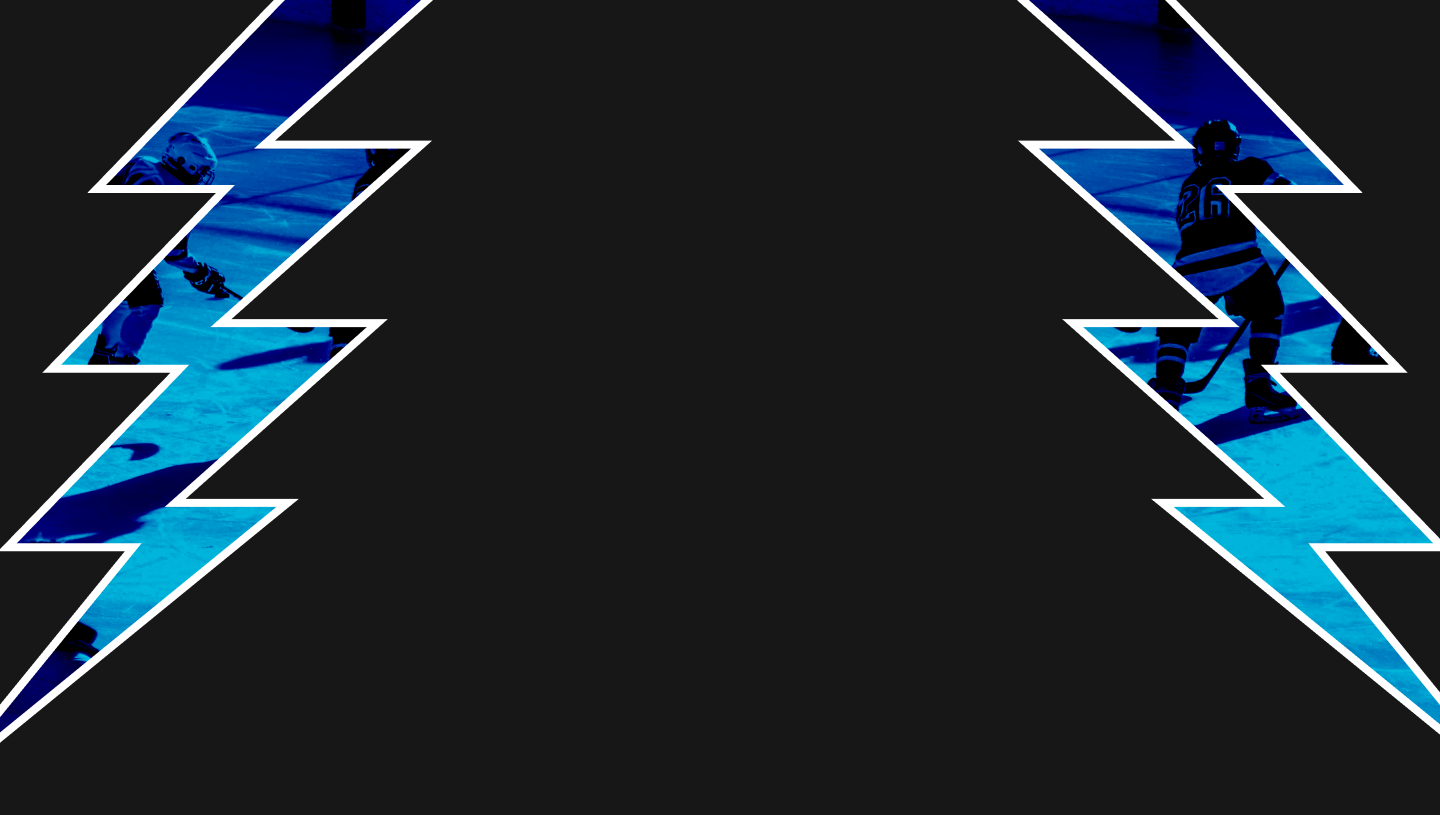
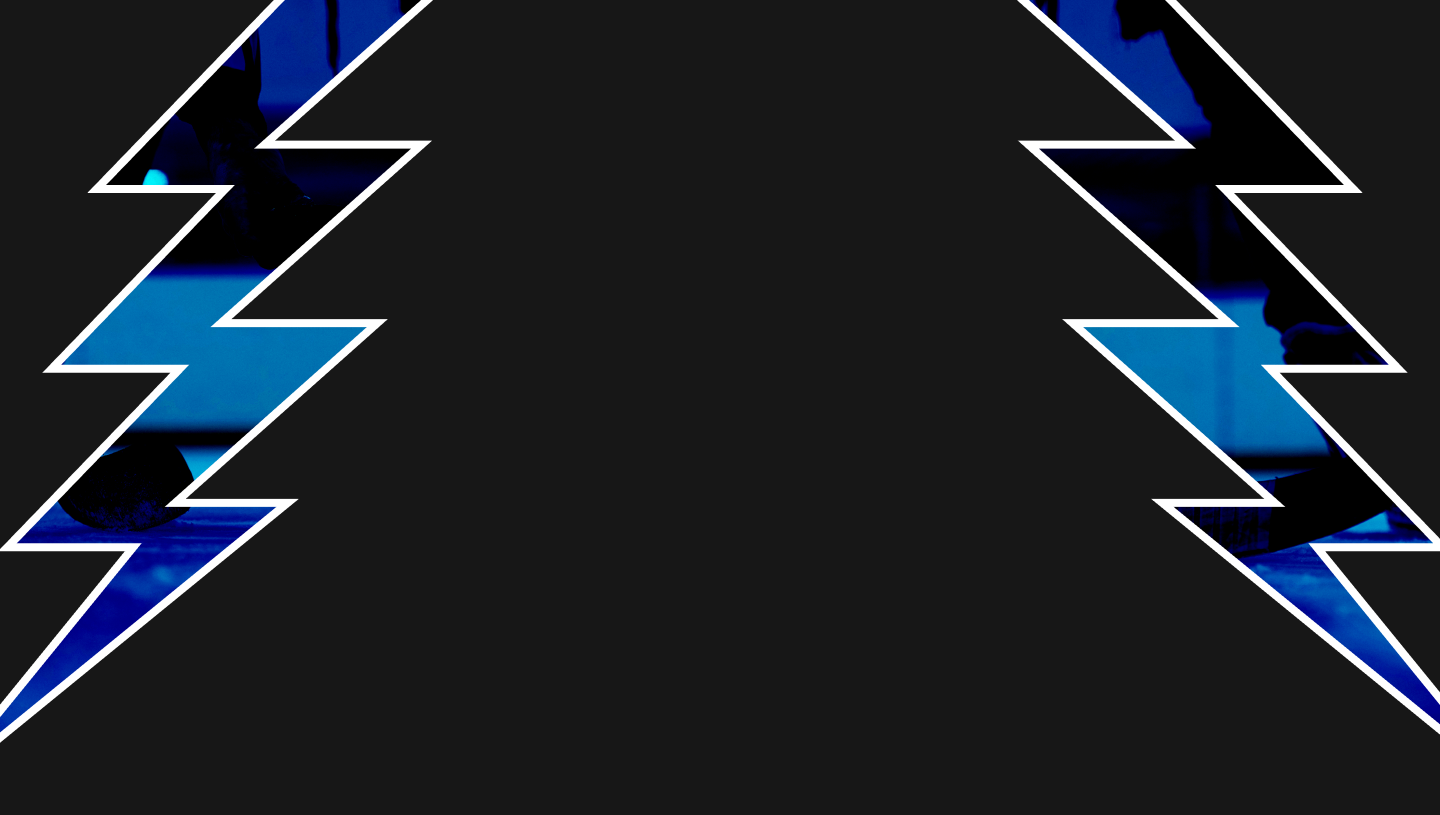
20: Switch out background image to not have kids skating and replace with generic hockey images

Changed region(s): [[0.0, 0.0, 0.3125, 0.8896], [0.7188, 0.0, 1.0, 0.8896]]

diff --git a/src/app/layout.tsx b/src/app/layout.tsx
@@ -36,8 +36,8 @@ export default function RootLayout({
 	children: React.ReactNode;
 }>) {
 	return (
-		<html lang="en">
-			<body className={`${industry.variable} ${gothic.variable}`}>
+		<html lang="en" className="bg-gray">
+			<body className={`${industry.variable} ${gothic.variable} `}>
 				{children}
 			</body>
 		</html>
